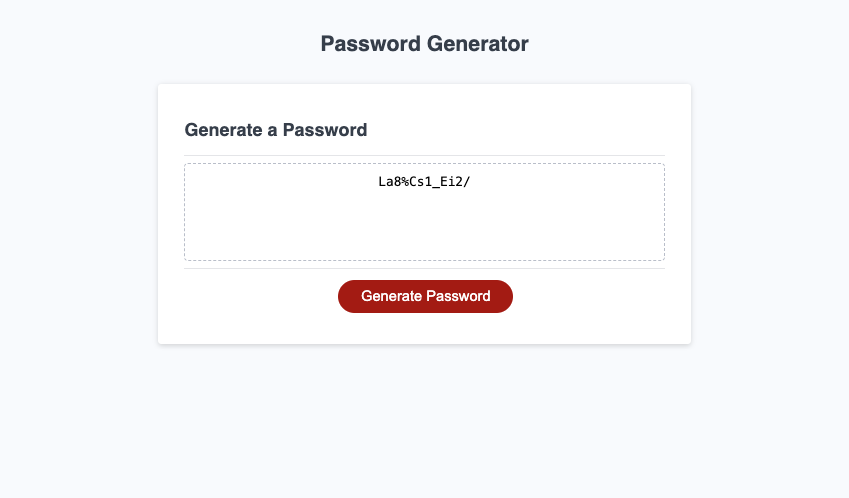
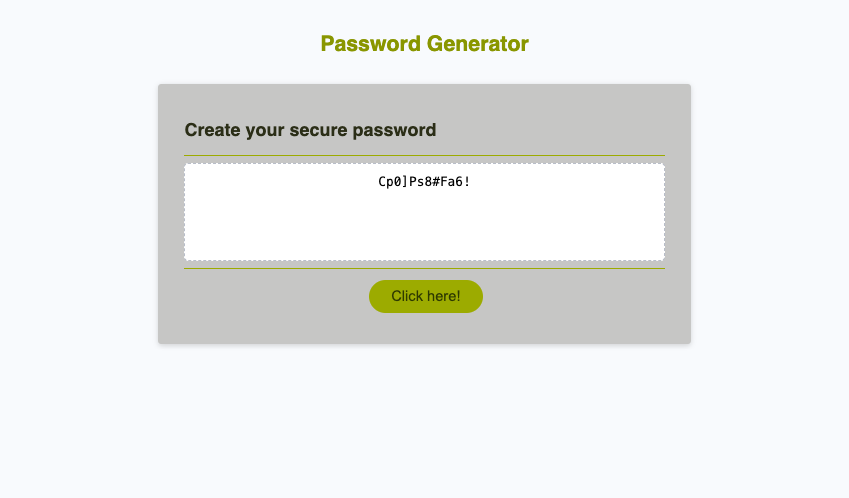
Design with html & Css

Changed region(s): [[0.1837, 0.1506, 0.8269, 0.6928], [0.3675, 0.0602, 0.6431, 0.1205]]

diff --git a/style.css b/style.css
@@ -27,15 +27,15 @@ header {
   text-align: center;
   padding: 20px;
   padding-top: 0px;
-  color: hsl(206, 17%, 28%);
+  color: hsl(58, 91%, 32%);
 }
 
 .card {
-  background-color: hsl(0, 0%, 100%);
+  background-color: hsl(60, 1%, 80%);
   border-radius: 5px;
   border-width: 1px;
   box-shadow: rgba(0, 0, 0, 0.15) 0px 2px 8px 0px;
-  color: hsl(206, 17%, 28%);
+  color: hsl(58, 32%, 15%);
   font-size: 18px;
   margin: 0 auto;
   max-width: 800px;
@@ -46,7 +46,7 @@ header {
   content: " ";
   display: block;
   width: 100%;
-  background: #e7e9eb;
+  background:hsl(58, 91%, 36%);
   height: 2px;
 }
 
@@ -62,7 +62,7 @@ header {
   content: " ";
   display: block;
   width: 100%;
-  background: #e7e9eb;
+  background:hsl(58, 91%, 36%);
   height: 2px;
 }
 
@@ -74,11 +74,11 @@ header {
 
 .btn {
   border: none;
-  background-color: hsl(360, 91%, 36%);
+  background-color: hsl(58, 91%, 36%);
   border-radius: 25px;
   box-shadow: rgba(0, 0, 0, 0.1) 0px 1px 6px 0px rgba(0, 0, 0, 0.2) 0px 1px 1px
     0px;
-  color: hsl(0, 0%, 100%);
+  color: hsl(67, 75%, 14%);
   display: inline-block;
   font-size: 22px;
   line-height: 22px;

diff --git a/index.html b/index.html
@@ -14,7 +14,7 @@
       </header>
       <div class="card">
         <div class="card-header">
-          <h2>Generate a Password</h2>
+          <h2>Create your secure password</h2>
         </div>
         <div class="card-body">
           <textarea
@@ -25,7 +25,7 @@
           ></textarea>
         </div>
         <div class="card-footer">
-          <button id="generate" class="btn">Generate Password</button>
+          <button id="generate" class="btn">Click here!</button>
         </div>
       </div>
     </div>

diff --git a/README.md b/README.md
@@ -20,7 +20,7 @@ We have used HTML and JavaScript to construct a dynamic user interface in this e
 
 ## Usage
 
-![Alt text](<images/Password Generator.png>)
+![Alt text](<images/Password generator.png>)
 
 > To access the url of this application click 
 
